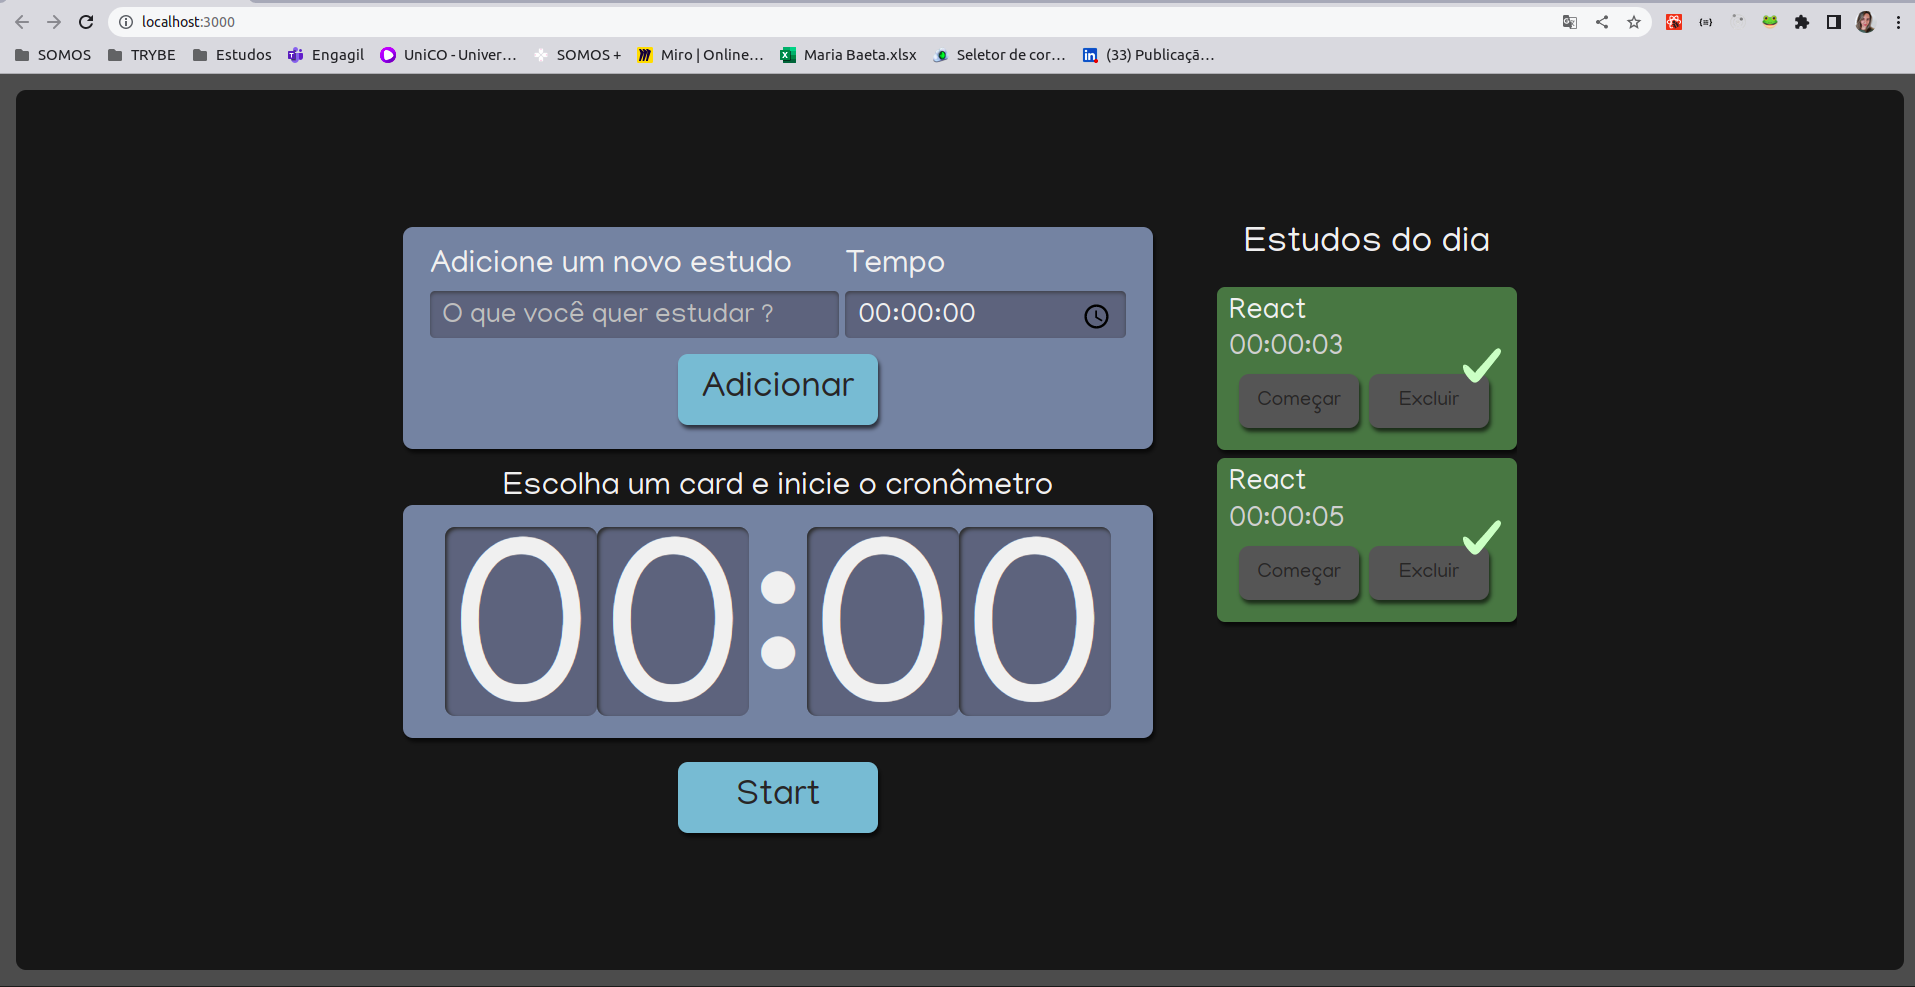
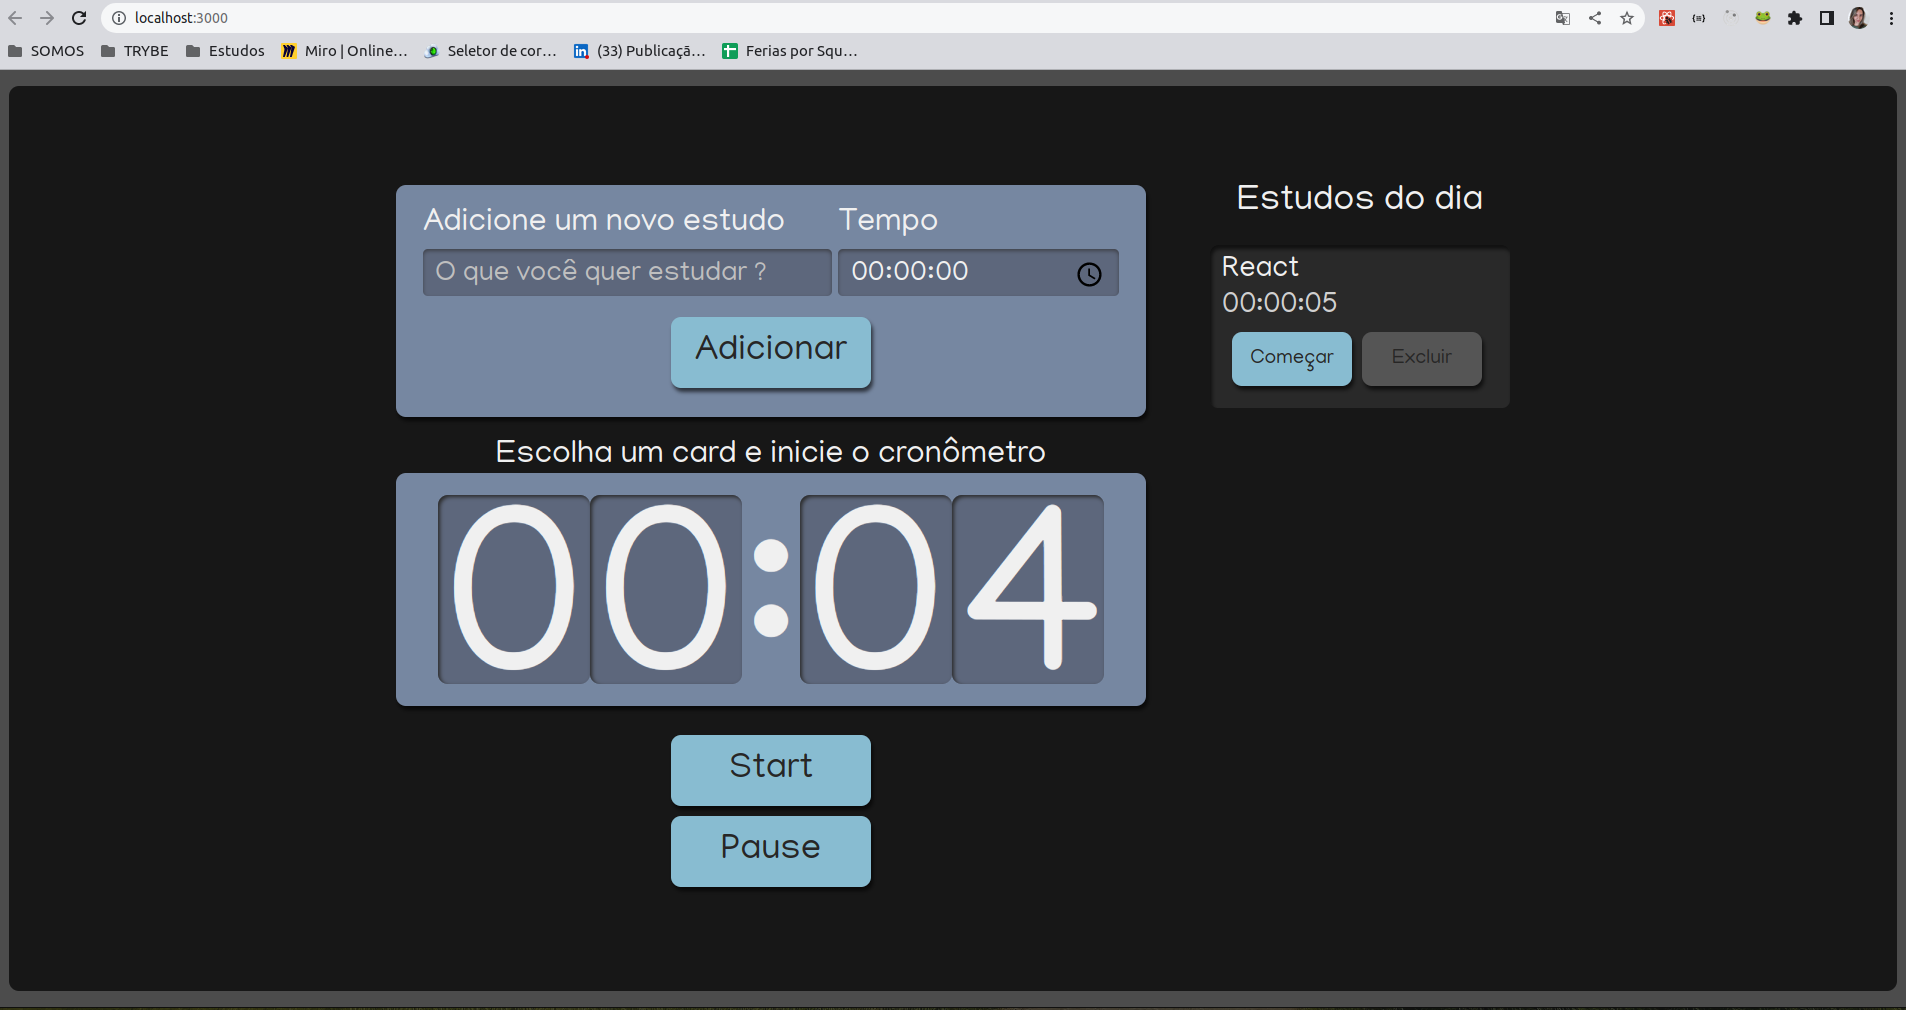
docs: Atualização do READMe

Changed region(s): [[0.1857, 0.1824, 0.8048, 0.8815], [0.0, 0.0, 1.0, 1.0]]

diff --git a/README.md b/README.md
@@ -22,10 +22,10 @@ Criação de um modelo de TODO List básico que permite:
 - Inciar contagem regressiva para execução da tarefa;
 - Dar como concluida a tarefa ao fim do tempo.
 
-O qeue fiz a mais:
+Sugestões de melhorias implementadas por mim:
 
-- Inclui botão que iniciar cronometragem das tarefas;
-- Excluir tarefa da lista;
+- Inclusão de botões: para Começar (botão que iniciar cronometragem das tarefas) e Excluir (exclui tarefa da lista) ;
+- Inclusão de botão de Pause (que pausa a contagem regressiva)
 
 ## Preparando o projeto localmente
 
@@ -71,6 +71,6 @@ Após a conclusão do curso:
 
 ![curso](public/proposta-do-curso.png)
 
-O que adicione:
+O que adicionei:
 
 ![maria](public/melhorias.png)
